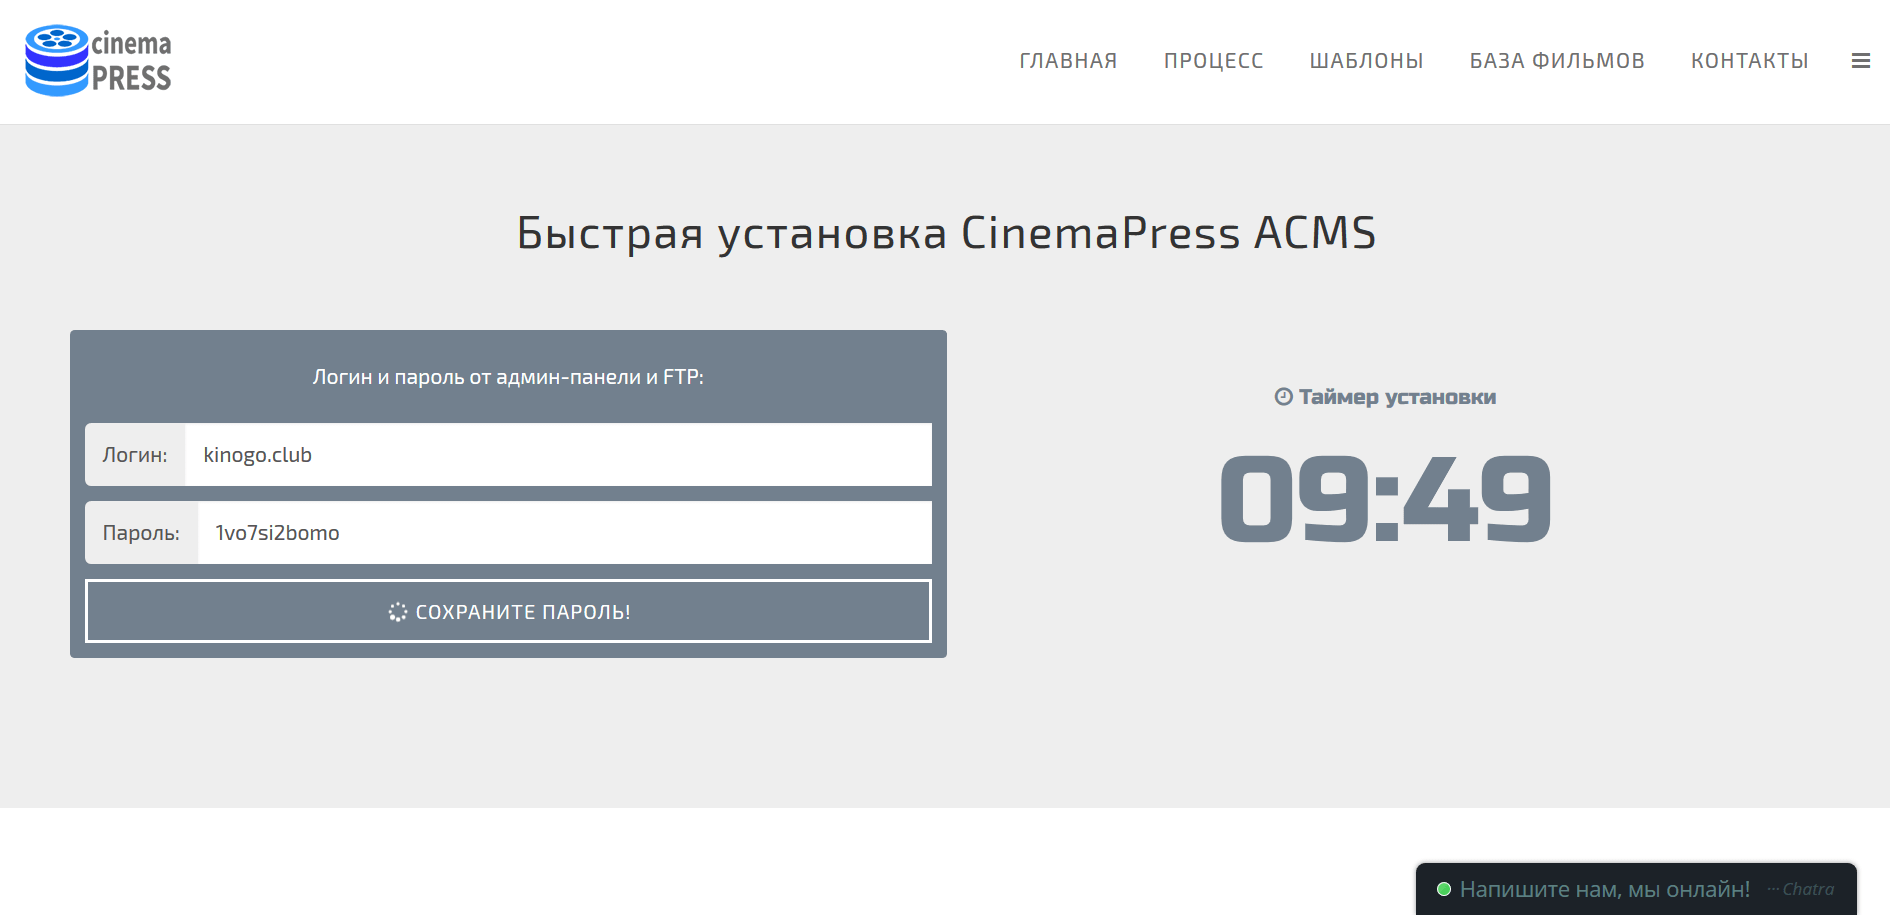
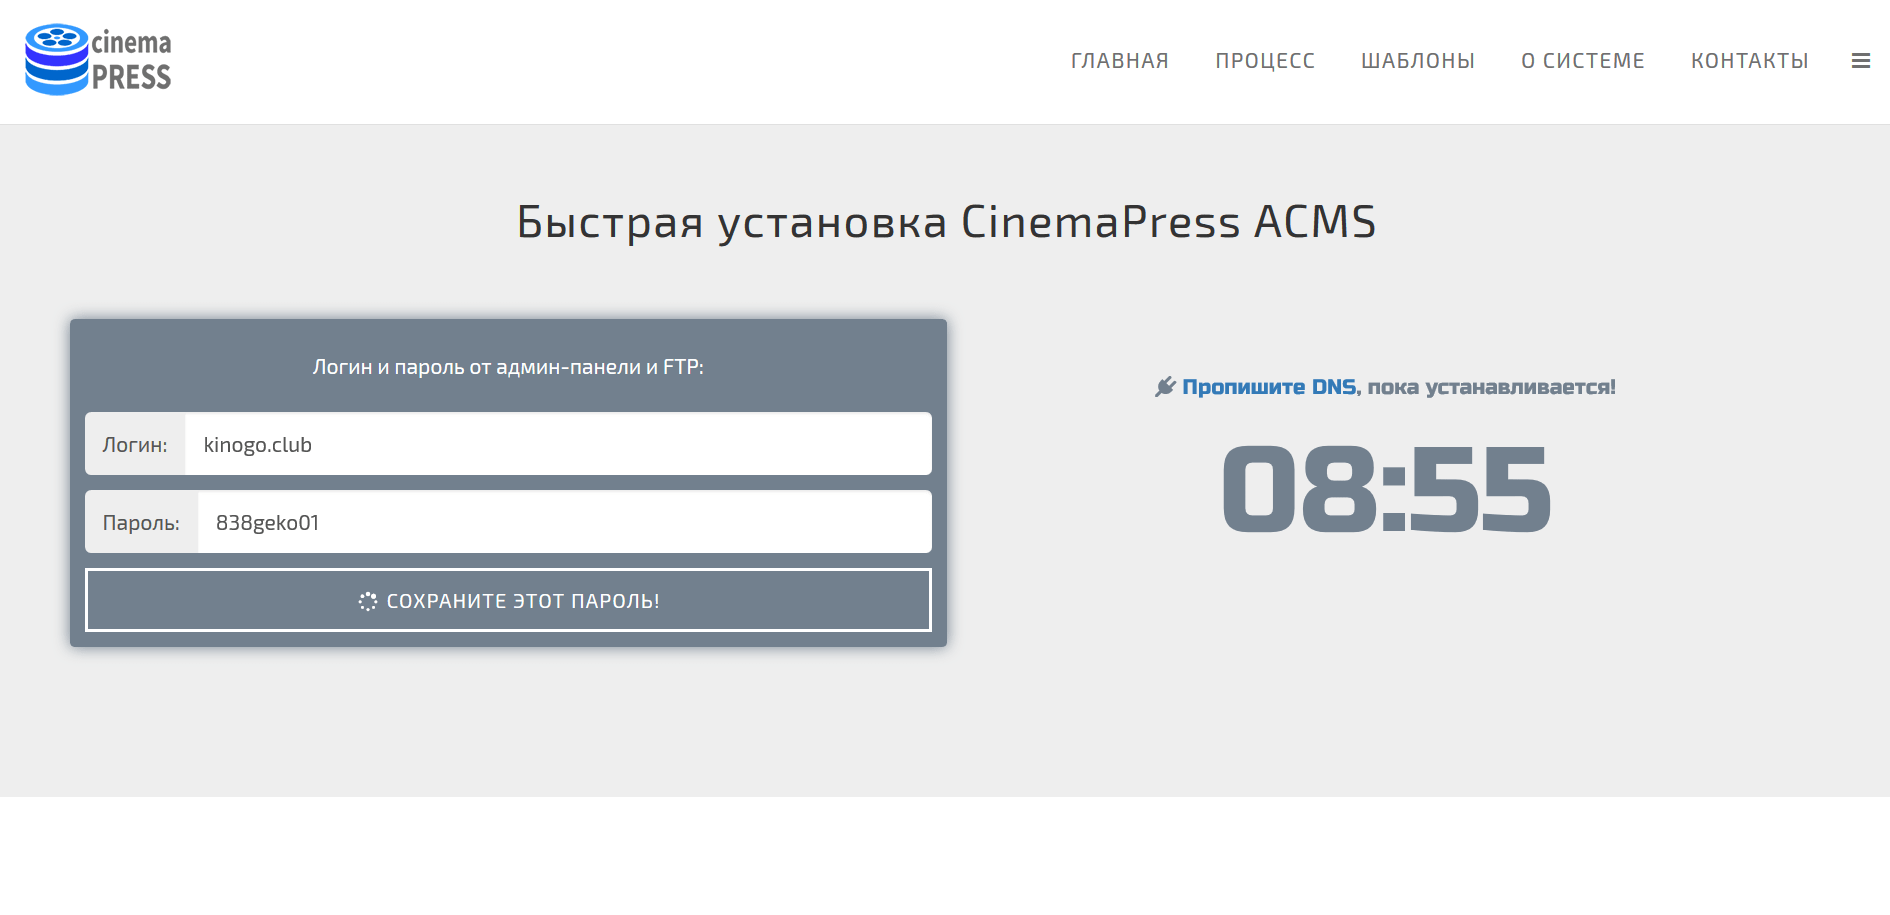
Add info install

diff --git a/article/kak-ustanovit-cinemapress-acms.html b/article/kak-ustanovit-cinemapress-acms.html
@@ -221,16 +221,19 @@
                 <p class="text-justify">
                     На данном этапе у Вас уже должны быть все данные, а именно: <a href="/article/gde-kupit-domen.html" target="_blank">зарегистрированный домен</a>, <a href="/article/gde-kupit-server.html" target="_blank">данные для подключения к серверу</a> (приходят на Ваш email после заказа VPS) и <a href="/article/kak-soedinit-domen-s-serverom.html" target="_blank">настроенный DNS</a> (сервер соединен с доменом). Переходите на <a href="/" target="_blank">главную страницу сайта</a>, вводите данные для быстрой установки и запускаете её. Сразу после запуска Вам будет показан пароль от админ-панели и FTP, его следует сохранить на компьютере. Очень важно не заходить на сайт, пока он еще не установлен, так как Ваш интернет провайдер закэширует нерабочий домен и даже когда сайт у всех будет работать - Вы будете видеть ошибку. Время кэша каждый провайдер выставляет разное, но предположительно, только через сутки, Вы сможете зайти на свой сайт. Чтобы этого избежать, не посещайте сайт до его полной установки. Когда таймер закончится, Вы сможете перейти в админ-панель сайта.<br>
                     <strong>Возможные ошибки:</strong><br>
-                    <strong>-</strong> Неверный IP или root-пароль от сервера;<br>
-                    <strong>-</strong> Операционная система на сервере не Debian 7 или 8;<br>
-                    <strong>-</strong> На сервере стоит панель управления ISP, Vesta и т.п. (обычно панели управления работают на ресурсозатратном Apache2, а система CinemaPress ACMS на легком и быстром Nginx);<br>
-                    <strong>-</strong> Ошибка подключения к Вашему серверу, в таком случае самостоятельно <a href="#windows" data-scroll="#windows">подключитесь по SSH</a> и <a href="#ssh" data-scroll="#ssh">установите CinemaPress ACMS</a>.
+                    <strong>-</strong> «Неверно указан IP или root-пароль» - проверьте правильность введенных данных;<br>
+                    <strong>-</strong> «Сервер не Debian 8 x64» - Ваш VPS сервер имеет другую операционную систему;<br>
+                    <strong>-</strong> «Ограничение на повторный запуск» - запрещено запускать установку больше одного раза в минуту;<br>
+                    <strong>-</strong> «На сервере установлен Apache2, возможны проблемы!» - если на сервере установлен Apache2, система попробует его отключить и запустить Nginx.<br><br>
+                    Если Вы убеждены, что всё вводите правильно, но система не запускается, тогда самостоятельно <a href="#windows" data-scroll="#windows">подключитесь по SSH</a> и <a href="#ssh" data-scroll="#ssh">установите CinemaPress ACMS</a>.<br>
+                    Во время установки Вы еще раз будете оповещены о DNS, «<a href="/article/kak-soedinit-domen-s-serverom.html" target="_blank">Пропишите DNS</a>, пока устанавливается!», так как это очень важно, ведь домен не знает, с какого сервера ему получать данные для отображения сайта. В конце, Вы сможете нажать на кнопку «Перейти в админ-панель» и введя логин с паролем, попадете в административную часть Вашего сайта.
                 </p>
             </div>
             <div class="col-md-5 col-sm-6 col-xs-12">
                 <img src="/images/install/install.png" class="img-responsive mb-10" alt="Как установить CinemaPress ACMS?" data-action="zoom">
                 <img src="/images/install/fast.png" class="img-responsive mb-10" alt="Быстрая установка онлайн кинотеатра" data-action="zoom">
                 <img src="/images/install/error.png" class="img-responsive" alt="Ошибка установки киносайта" data-action="zoom">
+                <img src="/images/install/ok.png" class="img-responsive" alt="Онлайн кинотеатр успешно установлен" data-action="zoom">
             </div>
         </div>
     </div>
